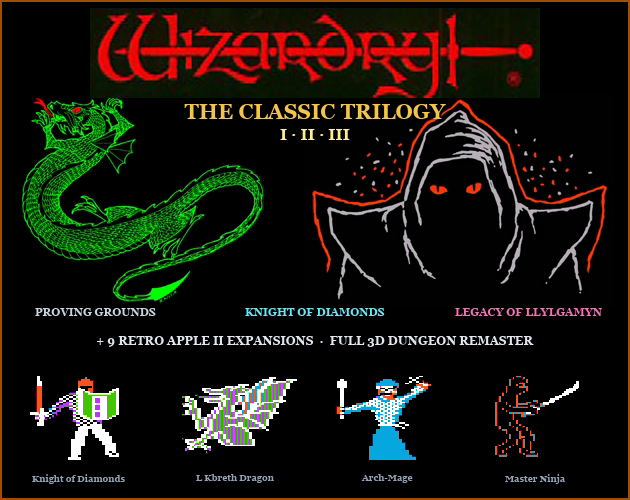
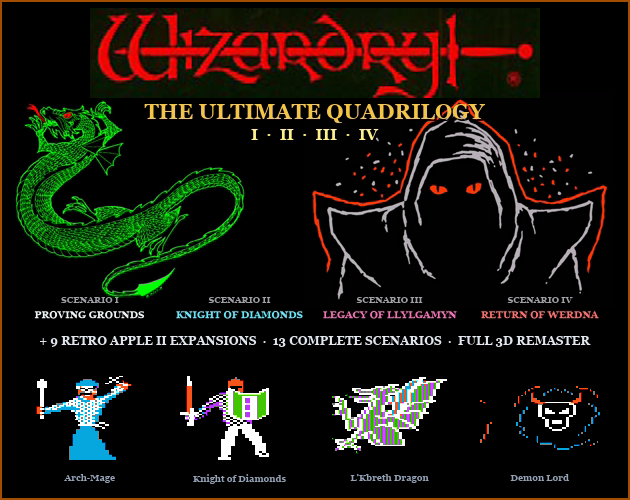
feat(media): update itch.io cover image to feature Wizardry IV and the full 13-scenario quadrilogy

diff --git a/scripts/generate_itchio_cover.py b/scripts/generate_itchio_cover.py
@@ -1,0 +1,74 @@
+import subprocess
+
+georgia_bold = "/System/Library/Fonts/Supplemental/Georgia Bold.ttf"
+
+filter_complex = (
+    "color=c=black:s=630x500[bg];"
+    # Werdna on right
+    "[1:v]scale=310:-1[werdna];"
+    "[bg][werdna]overlay=305:95[bg1];"
+    # Green dragon on left (scaled slightly to 232 wide so tail tip stays safely above SCENARIO I)
+    "[2:v]scale=232:-1[dragon];"
+    "[bg1][dragon]overlay=14:100[bg2];"
+    # Red Wizardry sword logo
+    "[0:v]crop=310:62:45:50,scale=450:90[logo];"
+    "[bg2][logo]overlay=(W-w)/2:8[bg3];"
+    # Gold subtitle bar for Quadrilogy
+    f"[bg3]drawtext=fontfile='{georgia_bold}':text='THE ULTIMATE QUADRILOGY':fontcolor='#f6c544':fontsize=21:x=(w-text_w)/2:y=104:shadowcolor=black:shadowx=2:shadowy=2[bg4];"
+    f"[bg4]drawtext=fontfile='{georgia_bold}':text='I  ·  II  ·  III  ·  IV':fontcolor='#fef08a':fontsize=16:x=(w-text_w)/2:y=129:shadowcolor=black:shadowx=2:shadowy=2[bg5];"
+    
+    # 4 scenario column headers (Scenario I, II, III, IV)
+    f"[bg5]drawtext=fontfile='{georgia_bold}':text='SCENARIO I':fontcolor='#a1a1aa':fontsize=8.5:x=90-(text_w/2):y=297:shadowcolor=black:shadowx=1:shadowy=1[bg6];"
+    f"[bg6]drawtext=fontfile='{georgia_bold}':text='SCENARIO II':fontcolor='#a1a1aa':fontsize=8.5:x=240-(text_w/2):y=297:shadowcolor=black:shadowx=1:shadowy=1[bg7];"
+    f"[bg7]drawtext=fontfile='{georgia_bold}':text='SCENARIO III':fontcolor='#a1a1aa':fontsize=8.5:x=390-(text_w/2):y=297:shadowcolor=black:shadowx=1:shadowy=1[bg8];"
+    f"[bg8]drawtext=fontfile='{georgia_bold}':text='SCENARIO IV':fontcolor='#a1a1aa':fontsize=8.5:x=540-(text_w/2):y=297:shadowcolor=black:shadowx=1:shadowy=1[bg9];"
+
+    # 4 scenario titles centered under each column
+    f"[bg9]drawtext=fontfile='{georgia_bold}':text='PROVING GROUNDS':fontcolor='#f1f5f9':fontsize=10:x=90-(text_w/2):y=311:shadowcolor=black:shadowx=1:shadowy=1[bg10];"
+    f"[bg10]drawtext=fontfile='{georgia_bold}':text='KNIGHT OF DIAMONDS':fontcolor='#67e8f9':fontsize=10:x=240-(text_w/2):y=311:shadowcolor=black:shadowx=1:shadowy=1[bg11];"
+    f"[bg11]drawtext=fontfile='{georgia_bold}':text='LEGACY OF LLYLGAMYN':fontcolor='#f472b6':fontsize=10:x=390-(text_w/2):y=311:shadowcolor=black:shadowx=1:shadowy=1[bg12];"
+    f"[bg12]drawtext=fontfile='{georgia_bold}':text='RETURN OF WERDNA':fontcolor='#f87171':fontsize=10:x=540-(text_w/2):y=311:shadowcolor=black:shadowx=1:shadowy=1[bg13];"
+
+    # Bottom banner
+    f"[bg13]drawtext=fontfile='{georgia_bold}':text='+ 9 RETRO APPLE II EXPANSIONS  ·  13 COMPLETE SCENARIOS  ·  FULL 3D REMASTER':fontcolor='#e2e8f0':fontsize=11.5:x=(w-text_w)/2:y=336:shadowcolor=black:shadowx=2:shadowy=2[bg14];"
+
+    # 4 canonical monster sprites along the bottom (Opus I, II, III, IV)
+    # 0: Arch-Mage (Wiz 1)
+    # 1: Knight of Diamonds (Wiz 2)
+    # 2: L'Kbreth Dragon (Wiz 3)
+    # 3: Demon Lord (Wiz 4)
+    "[3:v]scale=120:86:flags=neighbor[m1];"
+    "[4:v]scale=120:86:flags=neighbor[m2];"
+    "[5:v]scale=120:86:flags=neighbor[m3];"
+    "[6:v]scale=120:86:flags=neighbor[m4];"
+    "[bg14][m1]overlay=30:375[bg15];"
+    "[bg15][m2]overlay=180:375[bg16];"
+    "[bg16][m3]overlay=330:375[bg17];"
+    "[bg17][m4]overlay=480:375[bg18];"
+
+    # Labels under each monster
+    f"[bg18]drawtext=fontfile='{georgia_bold}':text='Arch-Mage':fontcolor='#94a3b8':fontsize=9:x=90-(text_w/2):y=474:shadowcolor=black:shadowx=1:shadowy=1[bg19];"
+    f"[bg19]drawtext=fontfile='{georgia_bold}':text='Knight of Diamonds':fontcolor='#94a3b8':fontsize=9:x=240-(text_w/2):y=474:shadowcolor=black:shadowx=1:shadowy=1[bg20];"
+    f"[bg20]drawtext=fontfile='{georgia_bold}':text='L’Kbreth Dragon':fontcolor='#94a3b8':fontsize=9:x=390-(text_w/2):y=474:shadowcolor=black:shadowx=1:shadowy=1[bg21];"
+    f"[bg21]drawtext=fontfile='{georgia_bold}':text='Demon Lord':fontcolor='#94a3b8':fontsize=9:x=540-(text_w/2):y=474:shadowcolor=black:shadowx=1:shadowy=1[bg22];"
+
+    # Gold frame border around image
+    "[bg22]drawbox=x=0:y=0:w=630:h=500:color=#d97706@0.7:t=2[out]"
+)
+
+cmd = [
+    "ffmpeg", "-y", "-loglevel", "error",
+    "-i", "/tmp/wiz_pics/we-love-wizardry-front.jpg",
+    "-i", "/tmp/wiz_pics/werdna6.jpg",
+    "-i", "/tmp/wiz_pics/gdrago7.jpg",
+    "-i", "src/assets/monsters/proving-grounds/pic8.png",
+    "-i", "src/assets/monsters/knight-of-diamonds/pic4.png",
+    "-i", "src/assets/monsters/legacy-of-llylgamyn/pic0.png",
+    "-i", "src/assets/monsters/proving-grounds/pic17.png",
+    "-filter_complex", filter_complex,
+    "-map", "[out]",
+    "-frames:v", "1",
+    "/tmp/cover_final.png"
+]
+subprocess.run(cmd, check=True)
+print("Generated /tmp/cover_final.png")
